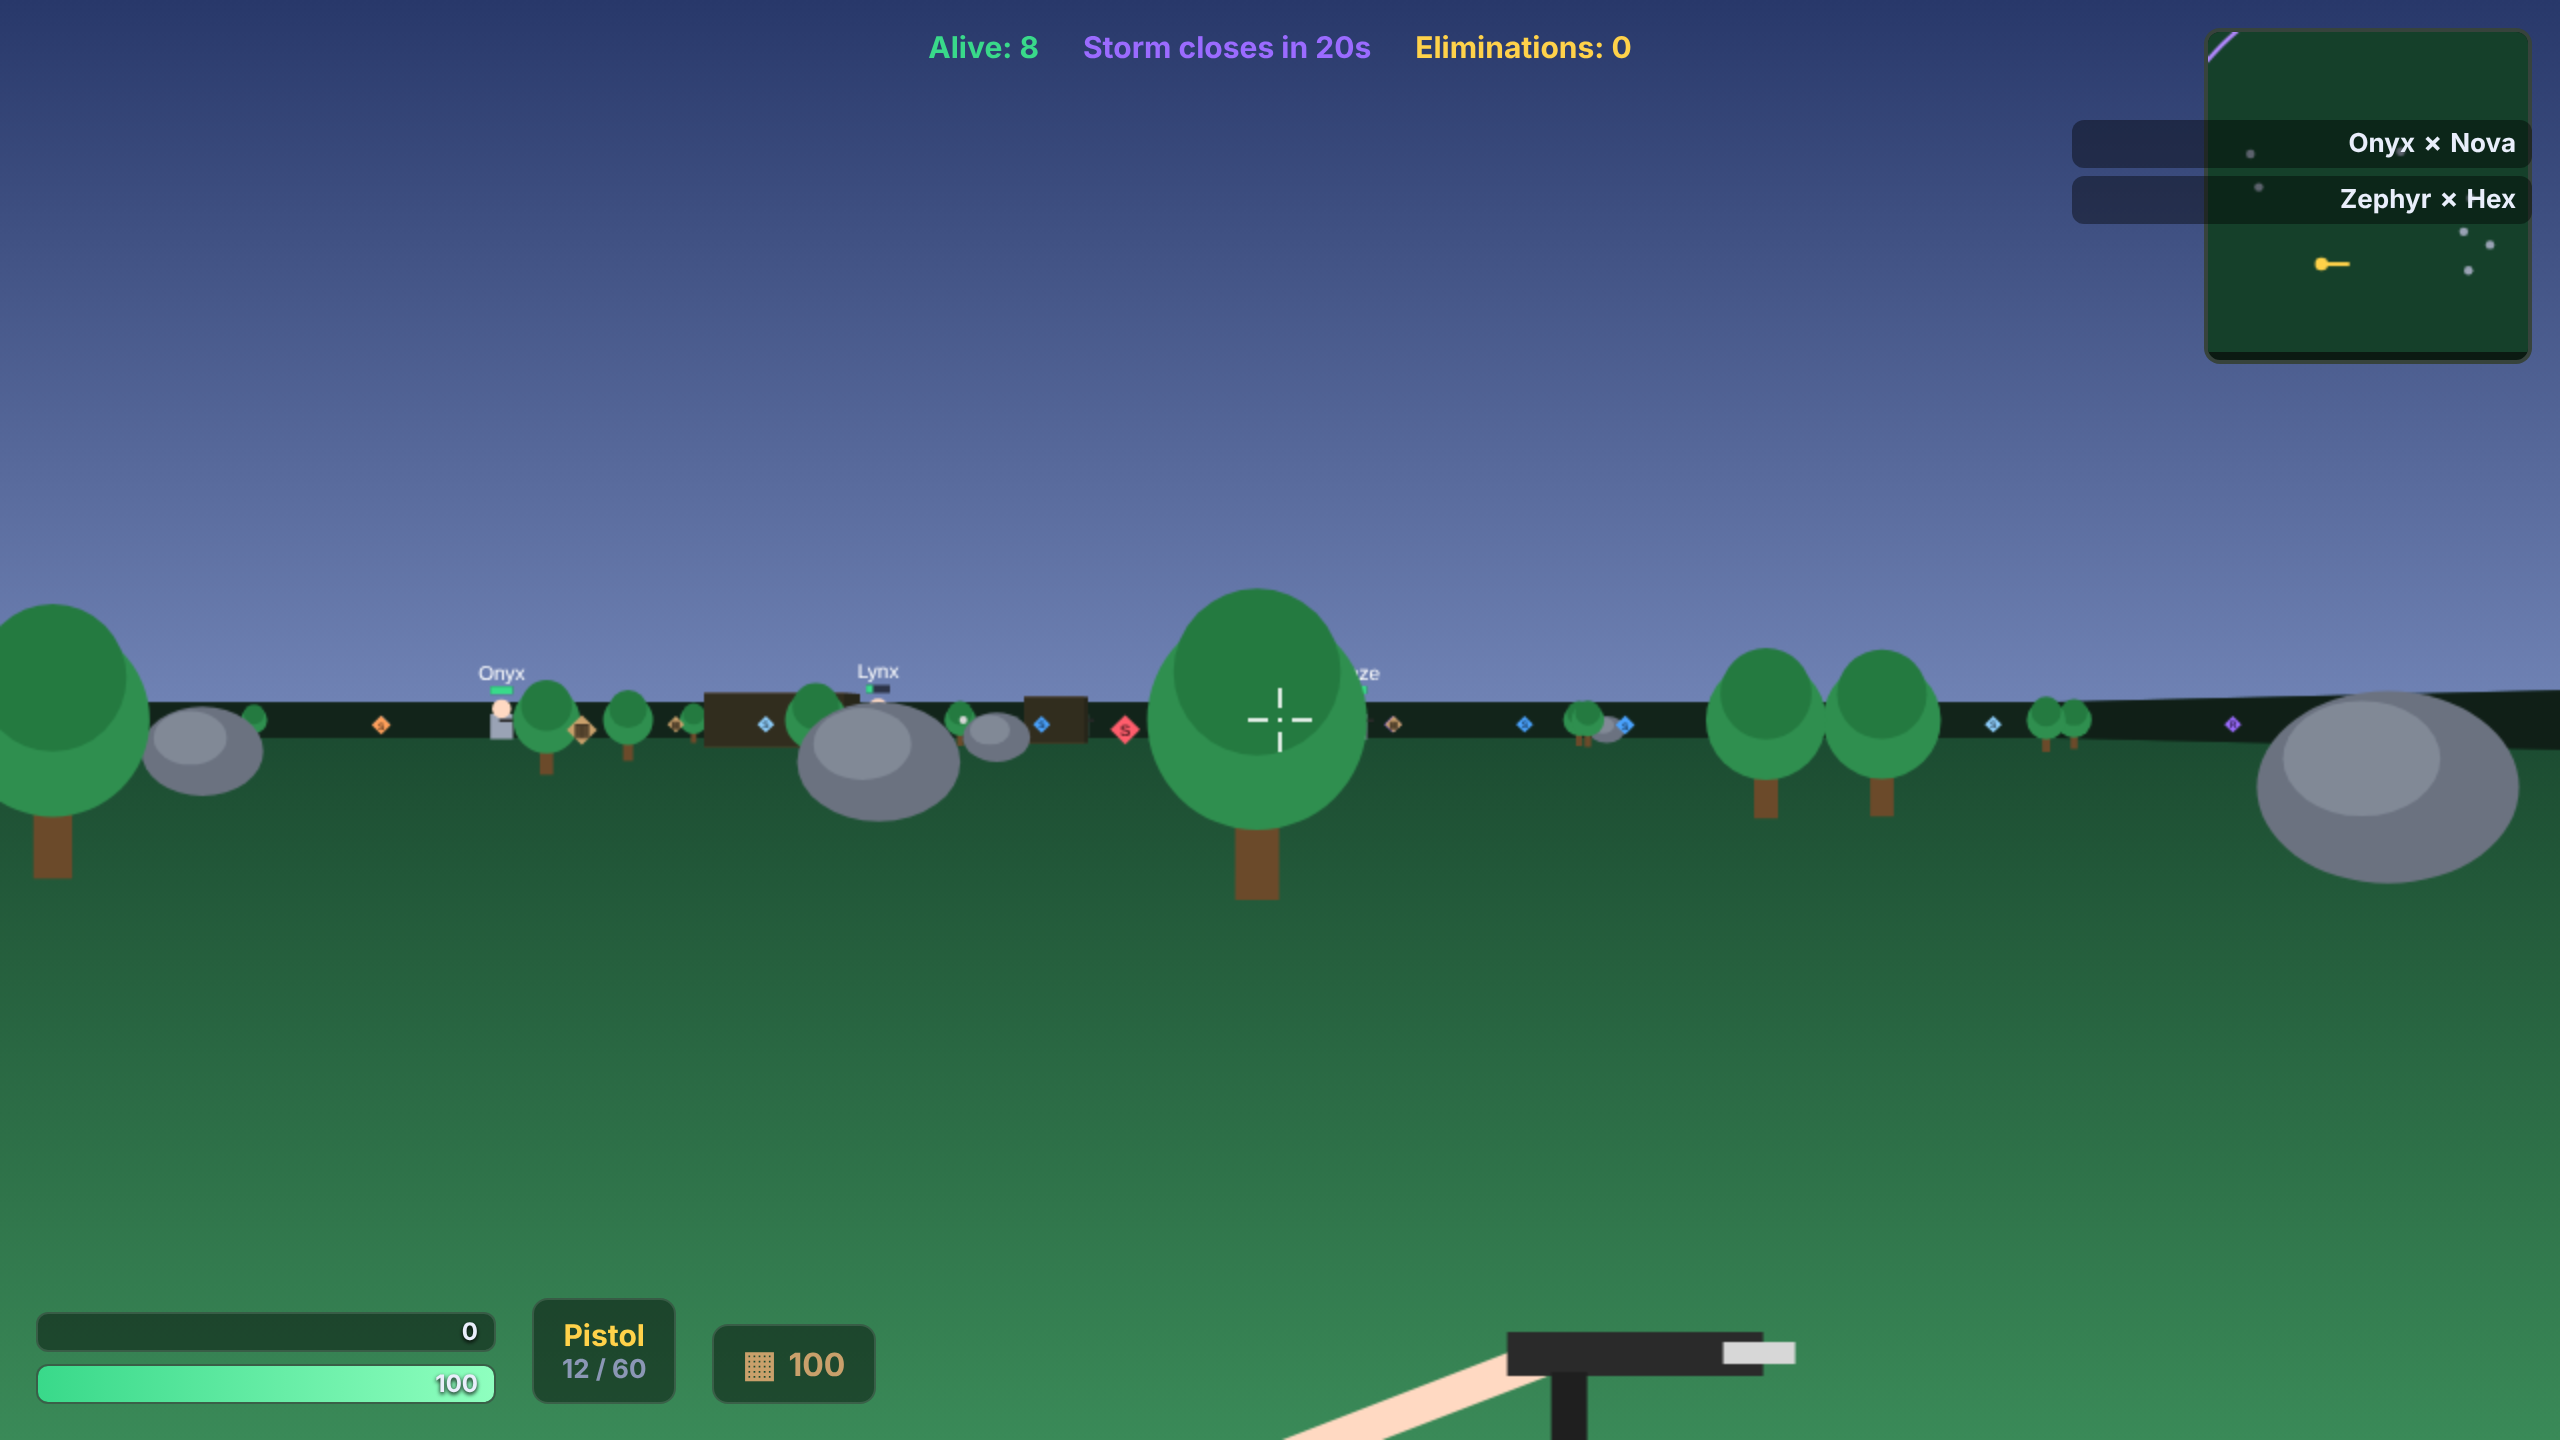
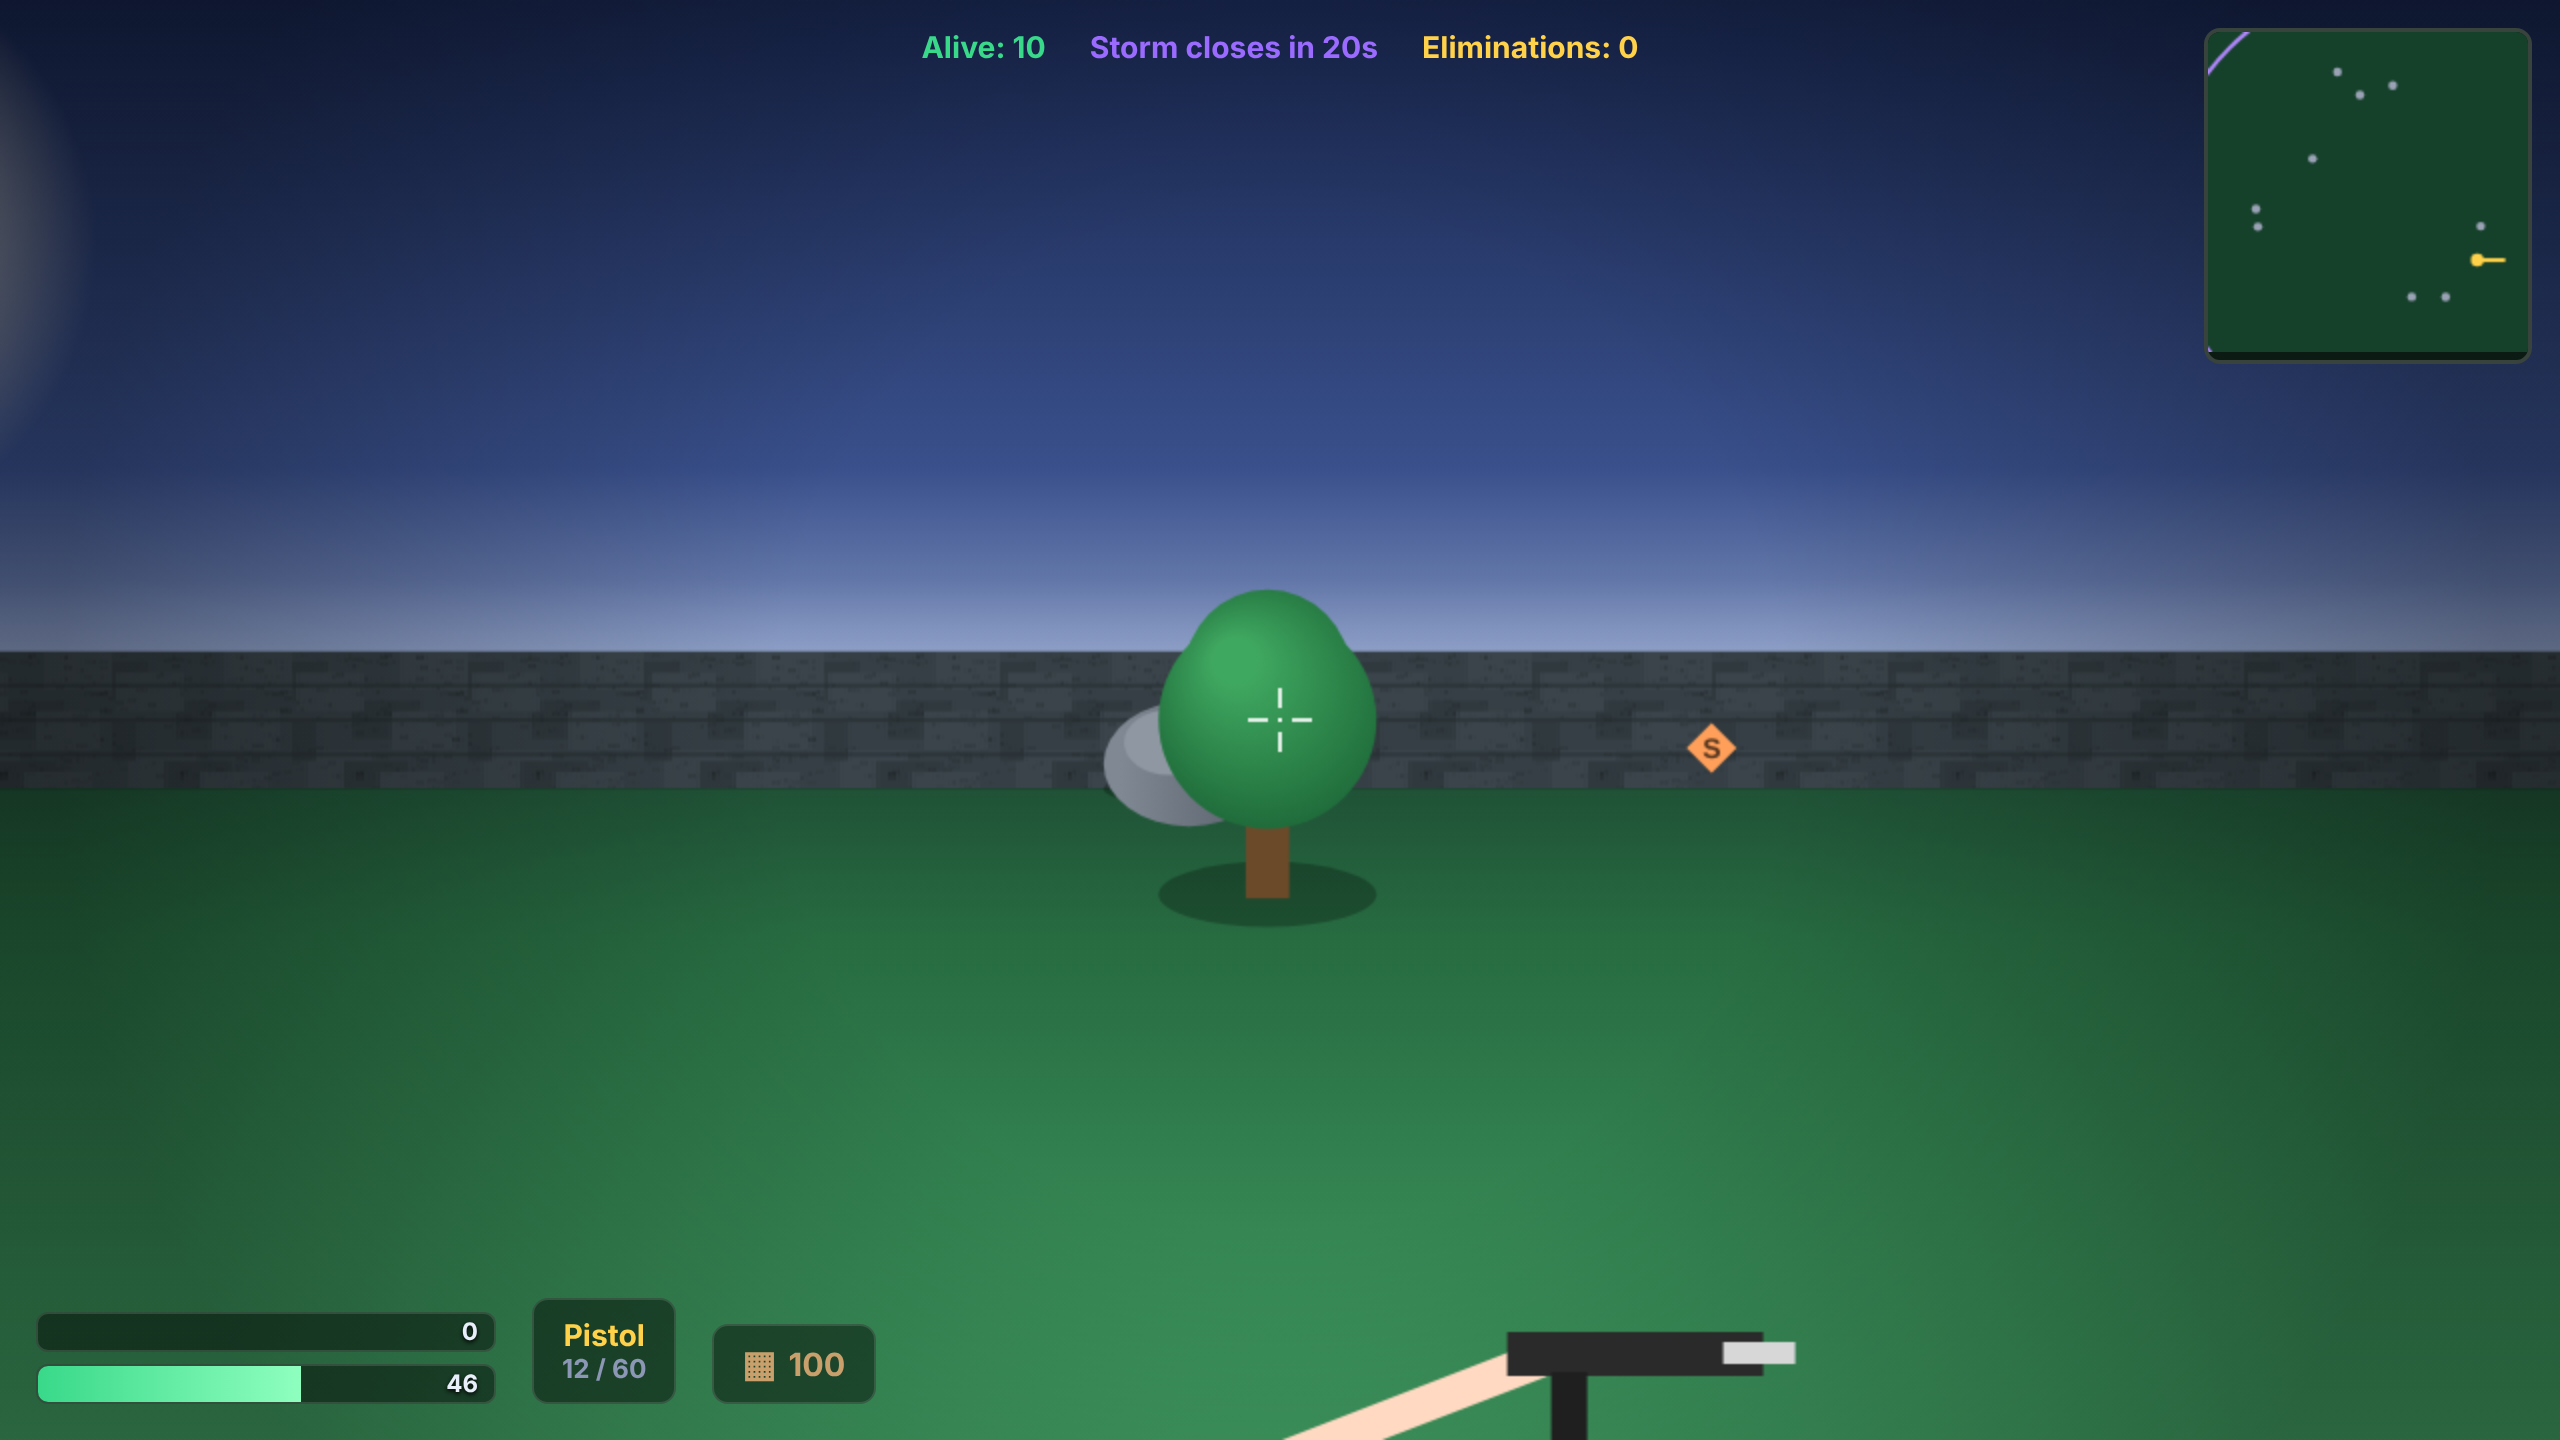
Graphics upgrade: textured walls, lit sky, shadows, vignette
- Procedural brick/stone/wood wall textures (textured raycasting)
- Lit sky: gradient, parallax sun with halo, horizon haze, tree-line
- Ground gradient + soft screen vignette for depth
- Drop shadows and gradient shading on players, trees, rocks
- Loop now guards draw errors so a bad frame can't freeze the game
- Fixed a non-finite createRadialGradient crash (pLen used before init)

All original art; no third-party assets.

Claude-Session: https://claude.ai/code/session_019jiNXYGFiKvodtYJVcnUi9

diff --git a/js/game.js b/js/game.js
@@ -591,7 +591,7 @@
     // reset one-shot inputs after they're consumed/sent
     input.build = 0; input.reload = false; input.pickup = false; input.swap = 0;
 
-    drawFrame();
+    try { drawFrame(); } catch (e) { if (console && console.error) console.error("draw error:", e); }
     requestAnimationFrame(loop);
   }
 
@@ -638,7 +638,45 @@
     return wm[gx + "," + gy] ? 1 : 0;
   }
 
+  // Procedural wall textures, generated once into offscreen canvases so the
+  // raycaster can blit 1px-wide vertical slices (textured raycasting).
+  var texBrick, texStone, texWood;
+  function mkTex(fn) {
+    var c = document.createElement("canvas"); c.width = 64; c.height = 64;
+    fn(c.getContext("2d")); return c;
+  }
+  function buildTextures() {
+    texBrick = mkTex(function (g) {
+      g.fillStyle = "#9c6632"; g.fillRect(0, 0, 64, 64);
+      for (var r = 0; r < 4; r++) {
+        var off = (r % 2) ? 16 : 0;
+        for (var c = -32; c < 64; c += 32) {
+          g.fillStyle = (r % 2) ? "#90612f" : "#a06b36";
+          g.fillRect(c + off + 1, r * 16 + 1, 30, 14);
+        }
+      }
+      g.strokeStyle = "#5f3c1c"; g.lineWidth = 2;
+      for (var r2 = 0; r2 < 4; r2++) { var o2 = (r2 % 2) ? 16 : 0; for (var c2 = -32; c2 < 64; c2 += 32) g.strokeRect(c2 + o2, r2 * 16, 32, 16); }
+      for (var i = 0; i < 120; i++) { g.fillStyle = "rgba(0,0,0," + (Math.random() * 0.14) + ")"; g.fillRect(Math.random() * 64 | 0, Math.random() * 64 | 0, 2, 2); }
+      g.fillStyle = "rgba(255,255,255,.06)"; g.fillRect(0, 0, 64, 3);
+    });
+    texStone = mkTex(function (g) {
+      g.fillStyle = "#4a5560"; g.fillRect(0, 0, 64, 64);
+      for (var i = 0; i < 9; i++) { g.fillStyle = (i % 2) ? "#414b55" : "#515c68"; g.fillRect((i * 17) % 64, (i * 23) % 64, 24, 18); }
+      for (var j = 0; j < 160; j++) { g.fillStyle = "rgba(0,0,0," + (Math.random() * 0.18) + ")"; g.fillRect(Math.random() * 64 | 0, Math.random() * 64 | 0, 2, 2); }
+      g.strokeStyle = "#2f363d"; g.lineWidth = 1;
+      for (var k = 1; k < 4; k++) { g.beginPath(); g.moveTo(0, k * 16); g.lineTo(64, k * 16); g.stroke(); }
+    });
+    texWood = mkTex(function (g) {
+      g.fillStyle = "#b4916a"; g.fillRect(0, 0, 64, 64);
+      g.strokeStyle = "#8f6f4e"; g.lineWidth = 2;
+      for (var y = 8; y < 64; y += 12) { g.beginPath(); g.moveTo(0, y); g.lineTo(64, y); g.stroke(); }
+      for (var i = 0; i < 80; i++) { g.fillStyle = "rgba(0,0,0," + (Math.random() * 0.1) + ")"; g.fillRect(Math.random() * 64 | 0, Math.random() * 64 | 0, 2, 2); }
+    });
+  }
+
   function drawFrame() {
+    if (!texBrick) buildTextures();
     var t = now(), dt = Math.min(0.05, (t - lastDraw) / 1000); lastDraw = t;
     var me = render.players[myId];
     // eye position (no smoothing in FP, to avoid nausea)
@@ -661,12 +699,35 @@
     ctx.setTransform(1, 0, 0, 1, 0, 0);
     if (zbuf.length < W) zbuf = new Float32Array(W);
 
-    // sky + floor
+    // ---- sky ----
     var sky = ctx.createLinearGradient(0, 0, 0, H / 2);
-    sky.addColorStop(0, "#28386a"); sky.addColorStop(1, "#7184b6");
+    sky.addColorStop(0, "#162348"); sky.addColorStop(0.65, "#39508c"); sky.addColorStop(1, "#95a6cc");
     ctx.fillStyle = sky; ctx.fillRect(0, 0, W, H / 2 + 1);
+    // sun, with parallax against the view direction
+    var sunAng = yaw + 0.7; while (sunAng > Math.PI) sunAng -= 6.2832; while (sunAng < -Math.PI) sunAng += 6.2832;
+    if (Math.abs(sunAng) < FOV * 0.85) {
+      var sunX = W / 2 - Math.tan(sunAng) / Math.tan(FOV / 2) * (W / 2), sunY = H * 0.17;
+      var halo = ctx.createRadialGradient(sunX, sunY, 4, sunX, sunY, 150);
+      halo.addColorStop(0, "rgba(255,240,200,.9)"); halo.addColorStop(1, "rgba(255,240,200,0)");
+      ctx.fillStyle = halo; ctx.fillRect(sunX - 150, sunY - 150, 300, 300);
+      ctx.fillStyle = "#fff4d6"; ctx.beginPath(); ctx.arc(sunX, sunY, 26, 0, 7); ctx.fill();
+    }
+    // horizon haze
+    var haze = ctx.createLinearGradient(0, H / 2 - 70, 0, H / 2);
+    haze.addColorStop(0, "rgba(185,200,228,0)"); haze.addColorStop(1, "rgba(190,205,230,.5)");
+    ctx.fillStyle = haze; ctx.fillRect(0, H / 2 - 70, W, 71);
+    // parallax tree-line silhouette on the horizon
+    var tlOff = ((yaw / 6.2832) * 1400) % 35; if (tlOff < 0) tlOff += 35;
+    ctx.fillStyle = "#12331d"; ctx.beginPath(); ctx.moveTo(0, H / 2 + 2);
+    for (var tx0 = -35; tx0 < W + 35; tx0 += 35) {
+      var px = tx0 - tlOff;
+      ctx.lineTo(px, H / 2 - 9 - 13 * Math.abs(Math.sin(tx0 * 0.7)));
+      ctx.lineTo(px + 17, H / 2 + 2);
+    }
+    ctx.lineTo(W, H / 2 + 2); ctx.closePath(); ctx.fill();
+    // ---- floor ----
     var gnd = ctx.createLinearGradient(0, H / 2, 0, H);
-    gnd.addColorStop(0, "#1b4a30"); gnd.addColorStop(1, "#3a8a58");
+    gnd.addColorStop(0, "#1c4631"); gnd.addColorStop(0.3, "#276b41"); gnd.addColorStop(1, "#3f9a60");
     ctx.fillStyle = gnd; ctx.fillRect(0, H / 2, W, H / 2);
 
     // wall lookup for this frame
@@ -700,15 +761,18 @@
       for (var z = 0; z < step; z++) if (x + z < W) zbuf[x + z] = perp;
       var lh = (H / perp) * 0.95;
       var y0 = H / 2 - lh / 2;
-      var col;
-      if (hit === 2) { col = shade("#143a22", side ? 0.7 : 1); }
-      else {
-        var m = wmeta[mapX + "," + mapY], dmg = m ? m.hp / 120 : 1;
-        col = shade(m && m.ramp ? "#b4916a" : "#a9743f", (side ? 0.72 : 1) * (0.5 + 0.5 * dmg));
-      }
-      ctx.fillStyle = col; ctx.fillRect(x, y0, step, lh);
+      // texture coordinate across the wall face
+      var wallX = side === 0 ? (posY + perp * rdy) : (posX + perp * rdx);
+      wallX -= Math.floor(wallX);
+      var texX = (wallX * 64) | 0;
+      if ((side === 0 && rdx > 0) || (side === 1 && rdy < 0)) texX = 63 - texX;
+      var tex, lit = side ? 0.7 : 1;
+      if (hit === 2) tex = texStone;
+      else { var m = wmeta[mapX + "," + mapY]; tex = (m && m.ramp) ? texWood : texBrick; if (m) lit *= (0.5 + 0.5 * m.hp / 120); }
+      ctx.drawImage(tex, texX, 0, 1, 64, x, y0, step, lh);
+      if (lit < 1) { ctx.fillStyle = "rgba(0,0,0," + (1 - lit) + ")"; ctx.fillRect(x, y0, step, lh); }
       var fog = clamp(perp / 26, 0, 0.72);
-      if (fog > 0) { ctx.fillStyle = "rgba(18,28,24," + fog + ")"; ctx.fillRect(x, y0, step, lh); }
+      if (fog > 0) { ctx.fillStyle = "rgba(20,30,26," + fog + ")"; ctx.fillRect(x, y0, step, lh); }
     }
 
     // ---- billboards (far -> near) ----
@@ -737,6 +801,10 @@
       vg.addColorStop(0, "rgba(140,80,220,.12)"); vg.addColorStop(1, "rgba(140,80,220,.55)");
       ctx.fillStyle = vg; ctx.fillRect(0, 0, W, H);
     }
+    // soft always-on vignette for depth
+    var vig = ctx.createRadialGradient(W / 2, H / 2, H * 0.35, W / 2, H / 2, H * 0.85);
+    vig.addColorStop(0, "rgba(0,0,0,0)"); vig.addColorStop(1, "rgba(0,0,0,.34)");
+    ctx.fillStyle = vig; ctx.fillRect(0, 0, W, H);
 
     drawViewmodel(me);
     drawCrosshair();
@@ -769,8 +837,13 @@
       var h = size * 0.95, w = h * 0.45, p = S.p;
       var top = H / 2 - h * 0.55;
       ctx.save(); clipByDepth(sx - w, sx + w, depth);
-      // body
-      ctx.fillStyle = p.df > 0 ? "#fff" : (p.bot ? "#9aa3b5" : "#ff7a59");
+      // ground shadow
+      ctx.fillStyle = "rgba(0,0,0,.3)";
+      ctx.beginPath(); ctx.ellipse(sx, H / 2 + h * 0.4, w * 0.62, w * 0.2, 0, 0, 7); ctx.fill();
+      // body (left-lit gradient)
+      var base = p.bot ? "#9aa3b5" : "#ff7a59";
+      if (p.df > 0) ctx.fillStyle = "#fff";
+      else { var bg = ctx.createLinearGradient(sx - w / 2, 0, sx + w / 2, 0); bg.addColorStop(0, shade(base, 1)); bg.addColorStop(1, shade(base, 0.6)); ctx.fillStyle = bg; }
       ctx.fillRect(sx - w / 2, H / 2 - h * 0.12, w, h * 0.5);
       // head
       ctx.fillStyle = p.df > 0 ? "#fff" : "#ffd9c2";
@@ -792,15 +865,23 @@
     } else if (S.kind === "tree") {
       var th = size * 1.15, tw = th * 0.55;
       ctx.save(); clipByDepth(sx - tw / 2, sx + tw / 2, depth);
+      // shadow
+      ctx.fillStyle = "rgba(0,0,0,.26)"; ctx.beginPath(); ctx.ellipse(sx, H / 2 + th * 0.44, tw * 0.5, tw * 0.15, 0, 0, 7); ctx.fill();
+      // trunk
       ctx.fillStyle = "#6b4a2a"; ctx.fillRect(sx - tw * 0.1, H / 2, tw * 0.2, th * 0.45);
-      ctx.fillStyle = "#2f8f4f"; ctx.beginPath(); ctx.arc(sx, H / 2, tw * 0.5, 0, 7); ctx.fill();
-      ctx.fillStyle = "#247a40"; ctx.beginPath(); ctx.arc(sx, H / 2 - th * 0.12, tw * 0.38, 0, 7); ctx.fill();
+      // canopy (round, left-lit)
+      var cg = ctx.createRadialGradient(sx - tw * 0.15, H / 2 - th * 0.15, tw * 0.1, sx, H / 2 - th * 0.05, tw * 0.6);
+      cg.addColorStop(0, "#3fa860"); cg.addColorStop(1, "#1f6b3a"); ctx.fillStyle = cg;
+      ctx.beginPath(); ctx.arc(sx, H / 2, tw * 0.5, 0, 7); ctx.fill();
+      ctx.beginPath(); ctx.arc(sx, H / 2 - th * 0.12, tw * 0.38, 0, 7); ctx.fill();
       ctx.restore();
     } else if (S.kind === "rock") {
       var rh = size * 0.55, rw = size * 0.75;
       ctx.save(); clipByDepth(sx - rw / 2, sx + rw / 2, depth);
-      ctx.fillStyle = "#6b7280"; ctx.beginPath(); ctx.ellipse(sx, H / 2 + rh * 0.35, rw * 0.5, rh * 0.5, 0, 0, 7); ctx.fill();
-      ctx.fillStyle = "#818996"; ctx.beginPath(); ctx.ellipse(sx - rw * 0.1, H / 2 + rh * 0.2, rw * 0.3, rh * 0.3, 0, 0, 7); ctx.fill();
+      ctx.fillStyle = "rgba(0,0,0,.26)"; ctx.beginPath(); ctx.ellipse(sx, H / 2 + rh * 0.55, rw * 0.5, rh * 0.14, 0, 0, 7); ctx.fill();
+      var rg = ctx.createLinearGradient(sx - rw * 0.4, 0, sx + rw * 0.4, 0); rg.addColorStop(0, "#808894"); rg.addColorStop(1, "#59616b");
+      ctx.fillStyle = rg; ctx.beginPath(); ctx.ellipse(sx, H / 2 + rh * 0.35, rw * 0.5, rh * 0.5, 0, 0, 7); ctx.fill();
+      ctx.fillStyle = "#8f97a3"; ctx.beginPath(); ctx.ellipse(sx - rw * 0.12, H / 2 + rh * 0.18, rw * 0.26, rh * 0.26, 0, 0, 7); ctx.fill();
       ctx.restore();
     } else if (S.kind === "loot") {
       var c = Math.floor(sx);
